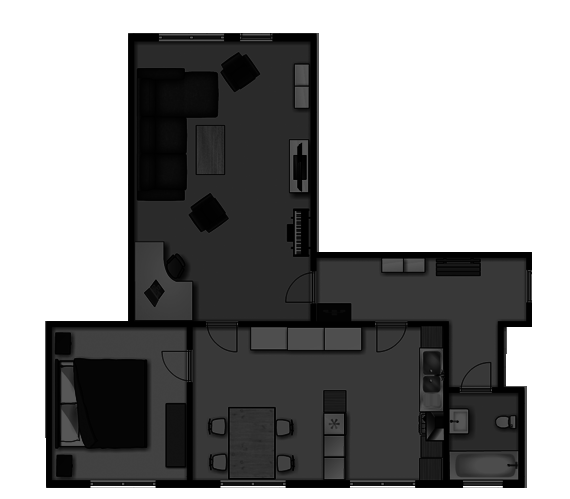
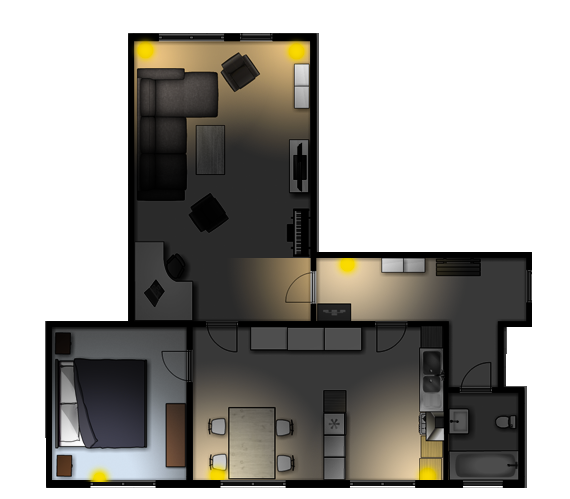
glomde lite grejer

Changed region(s): [[0.0895, 0.6914, 0.8053, 0.992], [0.2088, 0.0601, 0.5667, 0.3006], [0.4175, 0.511, 0.8053, 0.6613]]

diff --git a/client/partial/location.html b/client/partial/location.html
@@ -2,34 +2,41 @@
   <div class="rubrik">
     <h1>Lampor</h1><p>Vilka är på?</p>
   </div>
-  <div class="col-lg-12" style="height:400px;">
+  <div class="col-lg-12" style="height:535px;">
     <!--<iframe width="100%" height="498" frameborder="0" style="border:0"
             src="https://www.google.com/maps/embed/v1/view?key=AIzaSyDyP7EFmzjuK6Z9TqSbbhVLOIQRgBNmdYI&zoom=16&center=59.3470%2C17.9758&maptype=satellite"></iframe>
   </div>-->
-  <div class="lampImages">
-    <img src="./assets/images/ROOM.png" class="lampImage">
-    <div>
-      <img src="./assets/images/lamp1.png" class="lampImage">
-      <p class="lampImage lampText">1. Hallen </p>
+    <div class="lampImages">
+      <img src="./assets/images/ROOM.png" class="lampImage">
+      <div>
+        <img src="./assets/images/lamp1.png" class="lampImage">
+        <p class="lampImage lampText">1. Hallen </p>
+      </div>
+      <div>
+        <img src="./assets/images/lamp2.png" class="lampImage">
+        <p class="lampImage lampText" style="margin-top:50px;">2. Vardagsrum (Slinga) </p>
+      </div>
+      <div>
+        <img src="./assets/images/lamp3.png" class="lampImage">
+        <p class="lampImage lampText" style="margin-top:70px;">3. Vardagsrum (Golv) </p>
+      </div>
+      <div>
+        <img src="./assets/images/lamp4.png" class="lampImage">
+        <p class="lampImage lampText" style="margin-top:90px;">4. Vardagsrum (Fönster) </p>
+      </div>
+      <div>
+        <img src="./assets/images/lamp5.png" class="lampImage">
+        <p class="lampImage lampText" style="margin-top:110px;">5. Kök (Fönster) </p>
+      </div>
+      <div>
+        <img src="./assets/images/lamp6.png" class="lampImage">
+        <p class="lampImage lampText" style="margin-top:130px;">6. Kök (Matrum) </p>
+      </div>
+      <div>
+        <img src="./assets/images/lamp7.png" class="lampImage">
+        <p class="lampImage lampText" style="margin-top:150px;">7. Sovrum</p>
+      </div>
+      <img src="./assets/images/numbers.png" class="lampImage">
     </div>
-    <div>
-      <img src="./assets/images/lamp2.png" class="lampImage">
-      <p class="lampImage lampText" style="margin-top:40px;">2. Vardagsrum (Slinga) </p>
-    </div>
-    <div>
-      <img src="./assets/images/lamp3.png" class="lampImage">
-      <p class="lampImage lampText" style="margin-top:60px;">3. Vardagsrum (Golv) </p>
-    </div>
-    <div>
-      <img src="./assets/images/lamp4.png" class="lampImage">
-      <p class="lampImage lampText" style="margin-top:80px;">4. Vardagsrum (Fönster) </p>
-    </div>
-    <div>
-      <img src="./assets/images/lamp5.png" class="lampImage">
-      <p class="lampImage lampText" style="margin-top:100px;">5. Kök (Fönster) </p>
-    </div>
-    <div>
-      <img src="./assets/images/lamp6.png" class="lampImage">
-      <p class="lampImage lampText" style="margin-top:120px;">6. Kök (Matrum) </p>
   </div>
 </div>

diff --git a/client/index.html b/client/index.html
@@ -70,7 +70,6 @@
       <script src="bower_components/lodash/dist/lodash.compat.js"></script>
       <script src="bower_components/angular-ui-router/release/angular-ui-router.js"></script>
       <script src="bower_components/moment/moment.js"></script>
-      <script src="bower_components/moment/lang/sv.js"></script>
       <!-- endbower -->
     <!-- endbuild -->
 

diff --git a/client/css/app.css b/client/css/app.css
@@ -109,6 +109,6 @@ weather-h1 {
 }
 
 .lampText {
-  margin-left: 250px;
-  margin-top: 20px;
+  margin-left: 350px;
+  margin-top: 30px;
 }
